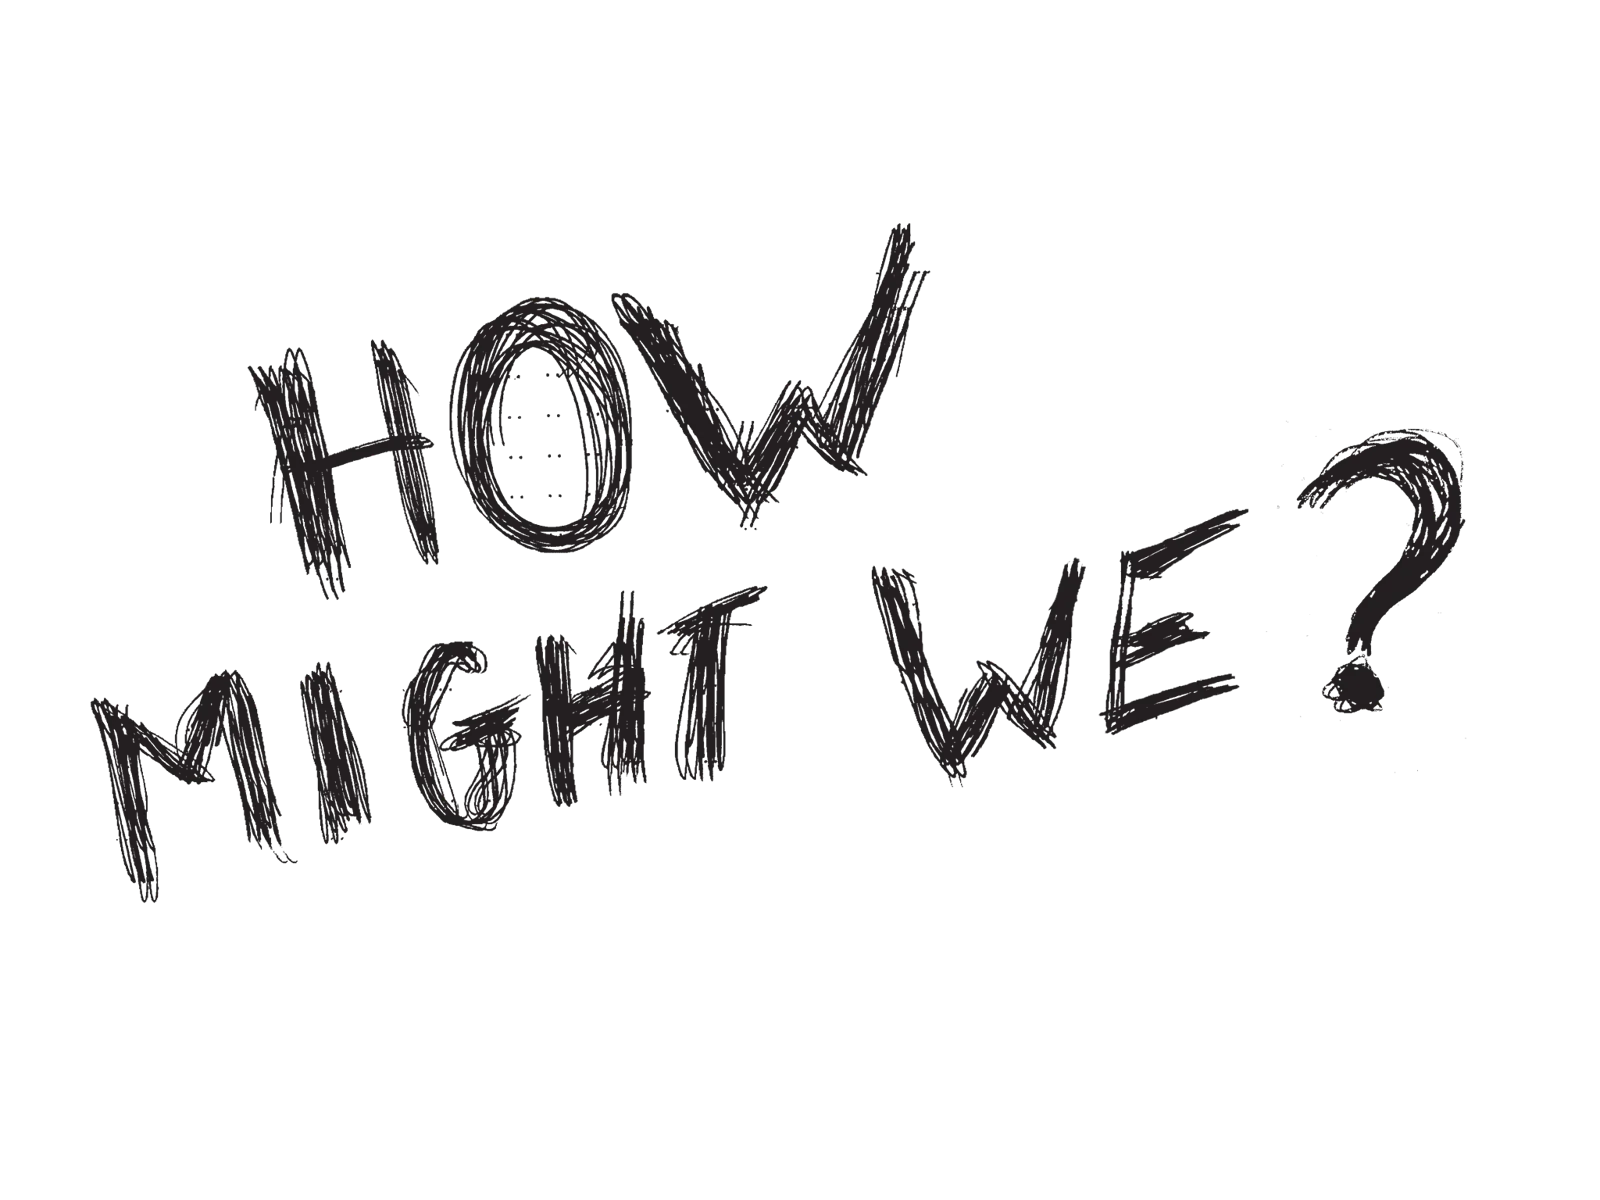
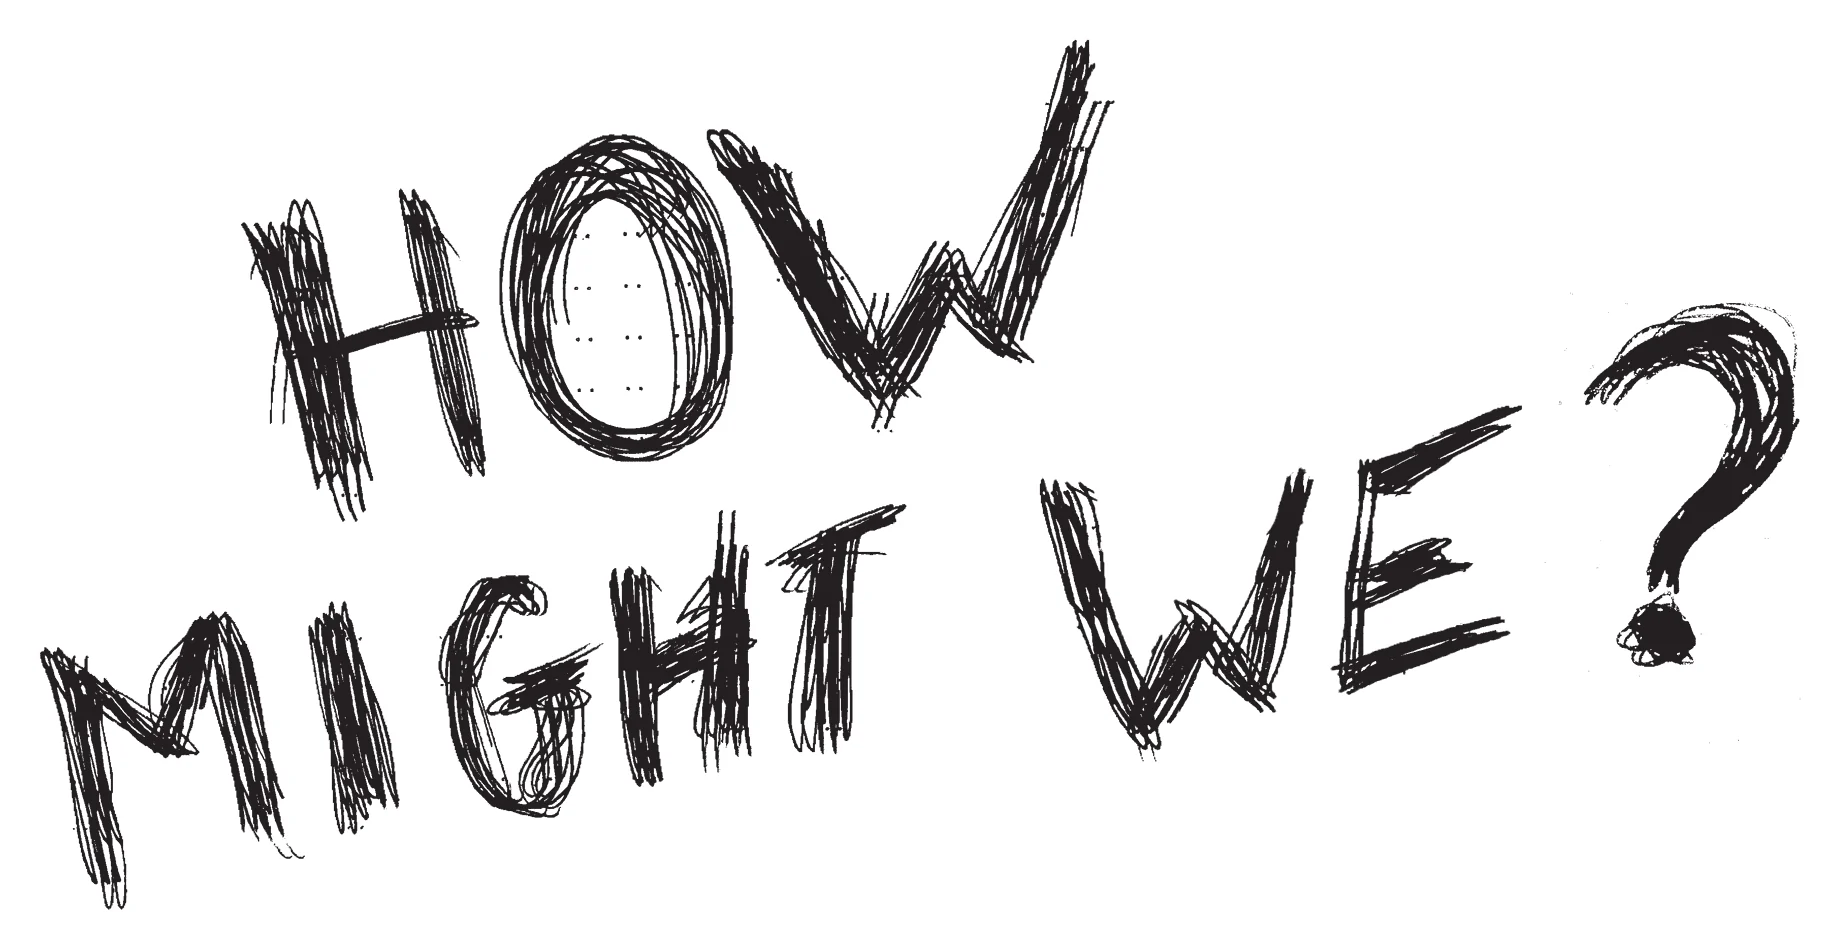
Carvaan: hover testimonials, trimmed task analysis, HMW image as heading
- User quotes appear as speech bubbles on hover/tap over Sheetal aunty,
  Dada Ji and Nana Ji (others fade); static quote row removed
- Task analysis cropped to remove the 'Section 1' tag and frame, shown
  smaller inside the text column
- HMW: handwritten image replaces the heading, questions laid out below

Claude-Session: https://claude.ai/code/session_01XbRpe75oocsijDTy4CTJgQ

Changed region(s): [[0.0, 0.0305, 0.625, 0.9463], [0.5312, 0.3053, 1.0, 0.7937]]

diff --git a/carvaan.html b/carvaan.html
@@ -496,7 +496,8 @@ body.cv-noside .side{opacity:0;pointer-events:none}
 .cv-wire{margin:18px 0 0;display:block}
 .cv-wire img{display:block;width:100%;height:auto;cursor:zoom-in}
 .cv-wire figcaption{margin-top:8px;font-family:var(--mono);font-size:11px;letter-spacing:.06em;text-transform:uppercase;color:var(--sub)}
-@media (min-width:841px){.cv-wire{margin-left:-324px}}
+@media (min-width:841px){.cv-wire:not(.cv-wire--in){margin-left:-324px}}
+.cv-wire--in{max-width:760px;margin-left:auto;margin-right:auto}
 .cv-zoom{position:fixed;inset:0;z-index:100;background:rgba(251,251,250,.97);display:none;overflow:auto;cursor:zoom-out}
 .cv-zoom.is-on{display:block}
 .cv-zoom img{display:block;width:max(1600px,100%);max-width:none;height:auto;margin:0 auto}
@@ -530,6 +531,41 @@ body.cv-noside .side{opacity:0;pointer-events:none}
   .cv-rev .r-me{order:9;width:92%;margin-top:8px}
 }
 @media (prefers-reduced-motion:reduce){.cv-knob{animation:none}}
+
+/* hover testimonials on the people row */
+.cv-pplwrap{position:relative;margin-top:clamp(70px,9vw,110px)}
+.cv-pplwrap .cv-ppl{margin-top:0}
+.cv-ppl img{transition:opacity .25s ease}
+.cv-pplwrap[data-active] .cv-ppl img{opacity:.22}
+.cv-pplwrap[data-active="sheetal"] .cv-ppl img.p-sheetal,.cv-pplwrap[data-active="dada"] .cv-ppl img.p-dada,.cv-pplwrap[data-active="nana"] .cv-ppl img.p-nana{opacity:1}
+.cv-hot{position:absolute;top:0;bottom:0;margin:0;padding:0;border:0;background:none;cursor:pointer;z-index:2;-webkit-tap-highlight-color:transparent}
+.cv-hot:focus-visible{outline:2px solid var(--accent);outline-offset:2px}
+.h-sheetal{left:0;width:21%}
+.h-dada{left:21%;width:21%}
+.h-nana{left:62%;width:38%}
+.cv-bub{position:absolute;left:50%;bottom:calc(100% - 12px);width:max-content;max-width:min(300px,70vw);transform:translate(-50%,8px);opacity:0;pointer-events:none;
+  background:var(--ink);color:#fff;border-radius:14px;padding:11px 15px;font-family:var(--display);font-size:clamp(14px,1.4vw,16.5px);font-weight:600;letter-spacing:-0.01em;line-height:1.3;text-align:left;
+  transition:opacity .22s ease,transform .22s ease;box-shadow:0 10px 24px -14px rgba(0,0,0,.5)}
+.cv-bub::before{content:"“";color:#8fa8ff}
+.cv-bub::after{content:"”";color:#8fa8ff}
+.cv-bub i{display:none}
+.cv-bub{--tail:0}
+.cv-hot::after{content:"";position:absolute;left:50%;bottom:calc(100% - 13px);width:12px;height:12px;background:var(--ink);transform:translate(-50%,8px) rotate(45deg);opacity:0;transition:opacity .22s ease,transform .22s ease;pointer-events:none}
+.cv-hot.is-on .cv-bub{opacity:1;transform:translate(-50%,-6px)}
+.cv-hot.is-on::after{opacity:1;transform:translate(-50%,0) rotate(45deg)}
+.h-sheetal .cv-bub{left:0;transform:translate(0,8px)}
+.h-sheetal.is-on .cv-bub{transform:translate(0,-6px)}
+.h-nana .cv-bub{left:auto;right:0;transform:translate(0,8px)}
+.h-nana.is-on .cv-bub{transform:translate(0,-6px)}
+.cv-ppl__hint{margin-top:6px}
+
+/* HMW: handwritten image as the heading, questions below */
+.cv-hmw__title{margin:14px 0 6px;font-size:0}
+.cv-hmw__title img{display:block;width:min(560px,90%);height:auto;margin:0 auto}
+.cv-hmw__list{list-style:none;margin:22px 0 0;padding:0;display:grid;grid-template-columns:repeat(3,1fr);gap:clamp(16px,2.4vw,28px);counter-reset:h}
+.cv-hmw__list li{counter-increment:h;padding-top:12px;border-top:2px solid var(--ink);font-family:var(--display);font-size:clamp(17px,1.7vw,19px);font-weight:600;letter-spacing:-0.01em;line-height:1.35;color:var(--ink)}
+.cv-hmw__list li::before{content:"0" counter(h);display:block;margin-bottom:8px;font-family:var(--mono);font-size:12px;font-weight:400;color:var(--accent)}
+@media (max-width:840px){.cv-hmw__list{grid-template-columns:1fr}}
 </style>
 
 
@@ -652,18 +688,19 @@ body.cv-noside .side{opacity:0;pointer-events:none}
       <section id="users" class="sec">
         <div class="eyebrow">04 · Talking to real users</div>
         <h2 class="sec__h">Everyone loved the nostalgia but struggled with control</h2>
-        <div class="cv-says">
-          <blockquote class="cv-say">Too many clicks.</blockquote>
-          <blockquote class="cv-say">It’s awkward to play a particular song when guests are around.</blockquote>
-          <blockquote class="cv-say">When someone requests a song, I just use my phone and open YouTube.</blockquote>
+        <div class="cv-pplwrap" id="ppl">
+          <div class="cv-comp cv-ppl">
+            <img class="p-sheetal" src="carvaan/user-sheetal.webp" alt="Sheetal aunty" loading="lazy">
+            <img class="p-dada" src="carvaan/user-dadaji.webp" alt="Dada Ji" loading="lazy">
+            <img class="p-me" src="carvaan/user-me.webp" alt="Me, trying the Carvaan" loading="lazy">
+            <img class="p-nana" src="carvaan/user-nanaji.webp" alt="Nana Ji" loading="lazy">
+          </div>
+          <button type="button" class="cv-hot h-sheetal" data-who="sheetal" aria-label="Sheetal aunty says"><span class="cv-bub">Too many clicks.</span></button>
+          <button type="button" class="cv-hot h-dada" data-who="dada" aria-label="Dada Ji says"><span class="cv-bub">It’s awkward to play a particular song when guests are around.</span></button>
+          <button type="button" class="cv-hot h-nana" data-who="nana" aria-label="Nana Ji says"><span class="cv-bub">When someone requests a song, I just use my phone and open YouTube.</span></button>
         </div>
-        <div class="cv-comp cv-ppl" role="group" aria-label="The people I spoke to">
-          <img class="p-sheetal" src="carvaan/user-sheetal.webp" alt="Sheetal aunty" loading="lazy">
-          <img class="p-dada" src="carvaan/user-dadaji.webp" alt="Dada Ji" loading="lazy">
-          <img class="p-me" src="carvaan/user-me.webp" alt="Me, trying the Carvaan" loading="lazy">
-          <img class="p-nana" src="carvaan/user-nanaji.webp" alt="Nana Ji" loading="lazy">
-        </div>
-        <div class="cv-ppl__names" aria-hidden="true"><span>Sheetal aunty</span><span>Dada Ji</span><span>Me</span><span>Nana Ji</span></div>
+        <div class="cv-ppl__names"><span>Sheetal aunty</span><span>Dada Ji</span><span>Me</span><span>Nana Ji</span></div>
+        <p class="cap cv-ppl__hint">Hover or tap each person to hear what they said</p>
         <p class="prose" style="margin-top:22px">The issue wasn’t usability alone — it was the <mark class="hl">disconnect between emotion and control</mark>.</p>
 
         <h3 class="sub__h">Empathy map</h3>
@@ -706,22 +743,19 @@ body.cv-noside .side{opacity:0;pointer-events:none}
         <p class="prose">To see where the experience was failing, I broke the journey into a task analysis. A simple goal of playing <em>“Lag Jaa Gale”</em> turned into endless skipping with no sense of progress.</p>
         <p class="prose">It became clear that finding one song <mark class="hl">wasn’t slow… it was uncertain</mark>.</p>
         <span class="cv-goal"><b>Goal</b>Play a specific song quickly and easily on the Saregama Carvaan.</span>
-        <figure class="cv-wire"><img src="carvaan/task-analysis.webp" alt="Task analysis — switch on device, select artist, change song, play specific song" loading="lazy"><figcaption>Switch on → select artist → change song → finally play the right one. Every step in bold is where people got lost.</figcaption></figure>
+        <figure class="cv-wire cv-wire--in"><img src="carvaan/task-analysis.webp" alt="Task analysis — switch on device, select artist, change song, play specific song" loading="lazy"><figcaption>Switch on → select artist → change song → finally play the right one. Every step in bold is where people got lost.</figcaption></figure>
       </section>
 
       <!-- 08 — HMW -->
       <section id="hmw" class="sec">
         <div class="eyebrow">08 · Reframing</div>
-        <h2 class="sec__h">How might we?</h2>
+        <h2 class="cv-hmw__title"><img src="carvaan/hmw.webp" alt="How might we?" loading="lazy"></h2>
         <p class="prose">The task analysis revealed the real pain: <mark class="hl">blind navigation, endless skipping, no sense of progress</mark>. The next step was to reframe that frustration into design opportunities.</p>
-        <div class="cv-hmw">
-          <img src="carvaan/hmw.webp" alt="“How might we?” handwritten" loading="lazy">
-          <ol>
-            <li>How might we give users a clear sense of “where they are” while browsing?</li>
-            <li>How might we find 1 song in a list of 5,000?</li>
-            <li>How might we give elderly users more control without adding complexity?</li>
-          </ol>
-        </div>
+        <ol class="cv-hmw__list">
+          <li>How might we give users a clear sense of “where they are” while browsing?</li>
+          <li>How might we find 1 song in a list of 5,000?</li>
+          <li>How might we give elderly users more control without adding complexity?</li>
+        </ol>
       </section>
 
       <!-- 09 — LOOKING BACK -->
@@ -846,7 +880,7 @@ body.cv-noside .side{opacity:0;pointer-events:none}
       es.forEach(function(e){ if(e.isIntersecting) on.add(e.target); else on.delete(e.target); });
       document.body.classList.toggle('cv-noside', on.size>0);
     },{rootMargin:'-10% 0px -10% 0px'});
-    wides.forEach(function(w){ wo.observe(w); });
+    wides.forEach(function(w){ if(!w.classList.contains('cv-wire--in')) wo.observe(w); });
   }
 
   // click a wireframe to see it at full size
@@ -855,6 +889,19 @@ body.cv-noside .side{opacity:0;pointer-events:none}
   wides.forEach(function(w){ var im=w.querySelector('img'); im.addEventListener('click',function(){ zimg.src=im.src; zimg.alt=im.alt; zoom.classList.add('is-on'); zoom.scrollTop=0; }); });
   zoom.addEventListener('click',function(){ zoom.classList.remove('is-on'); });
   document.addEventListener('keydown',function(e){ if(e.key==='Escape') zoom.classList.remove('is-on'); });
+  // people row: show each person's quote on hover / tap (not on me)
+  var pw=document.getElementById('ppl');
+  if(pw){
+    var hots=[].slice.call(pw.querySelectorAll('.cv-hot'));
+    function act(h){ hots.forEach(function(x){ x.classList.toggle('is-on', x===h); }); if(h) pw.setAttribute('data-active',h.dataset.who); else pw.removeAttribute('data-active'); }
+    hots.forEach(function(h){
+      h.addEventListener('mouseenter',function(){ act(h); });
+      h.addEventListener('mouseleave',function(){ act(null); });
+      h.addEventListener('focus',function(){ act(h); h._t=Date.now(); });
+      h.addEventListener('blur',function(){ act(null); });
+      h.addEventListener('click',function(e){ e.preventDefault(); if(Date.now()-(h._t||0)<500) return; act(h.classList.contains('is-on') ? null : h); });
+    });
+  }
 })();
 </script>
 </html>
